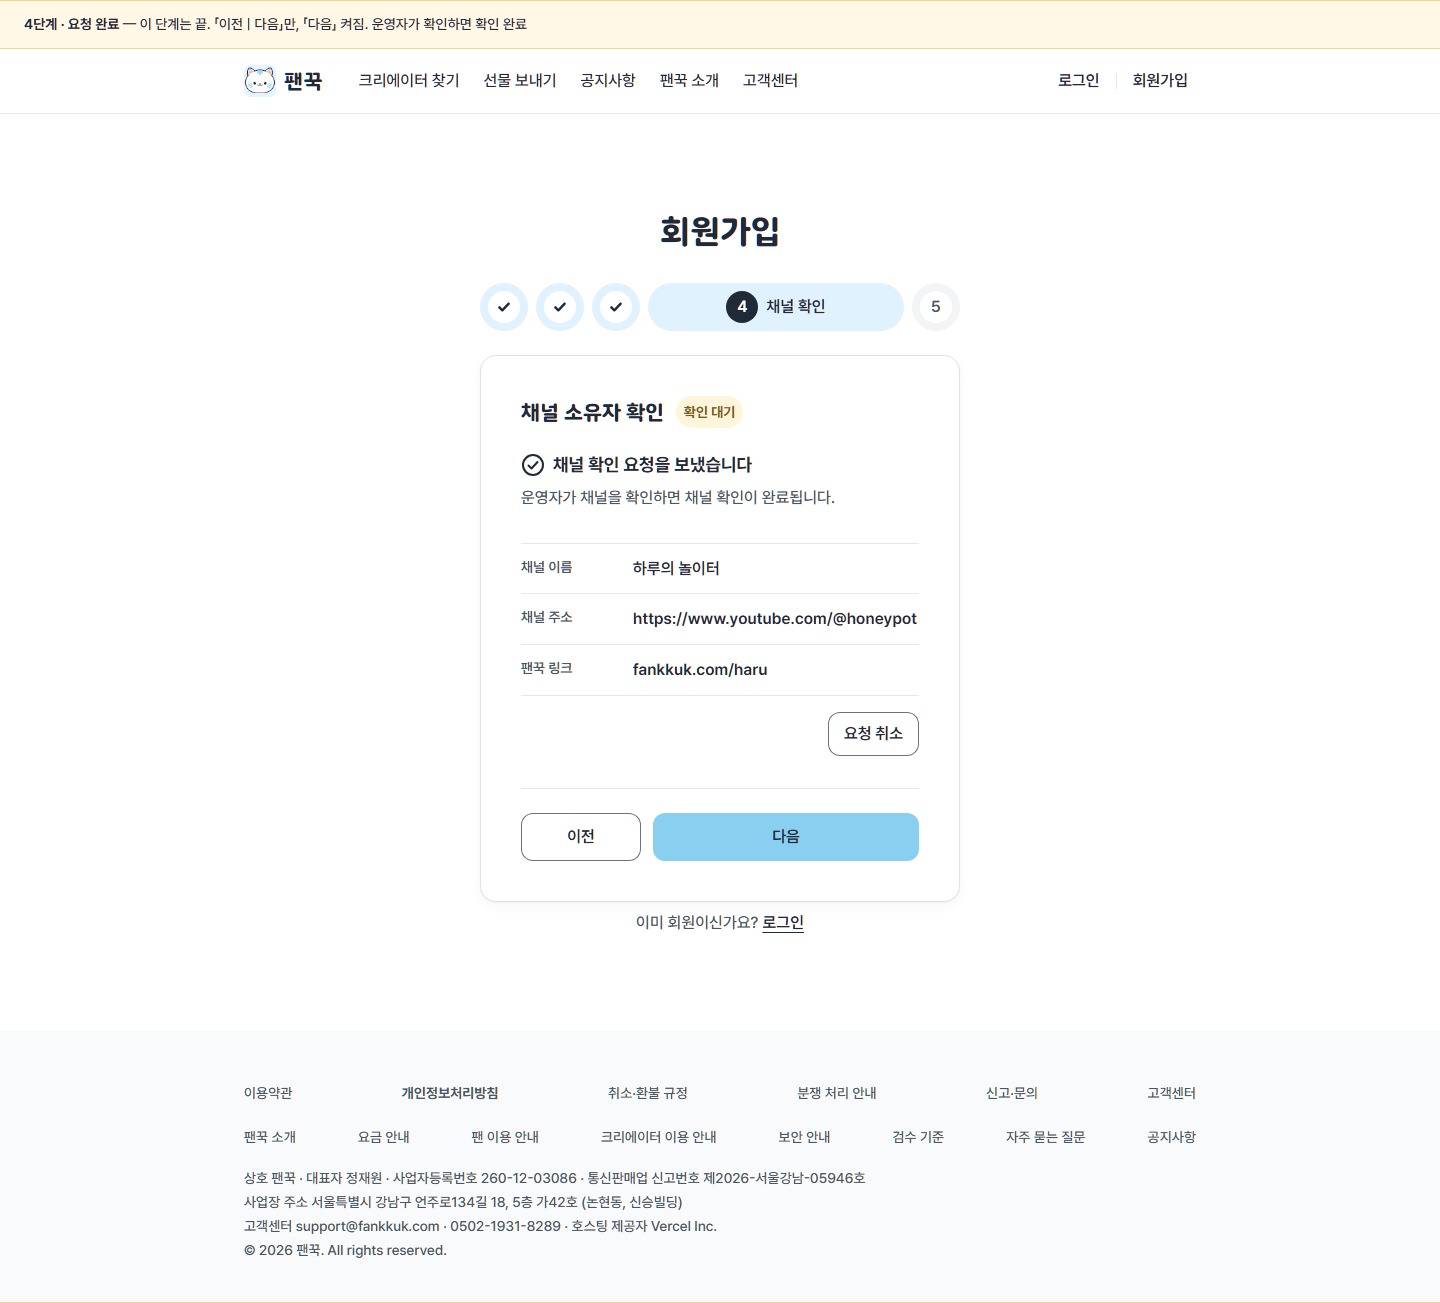
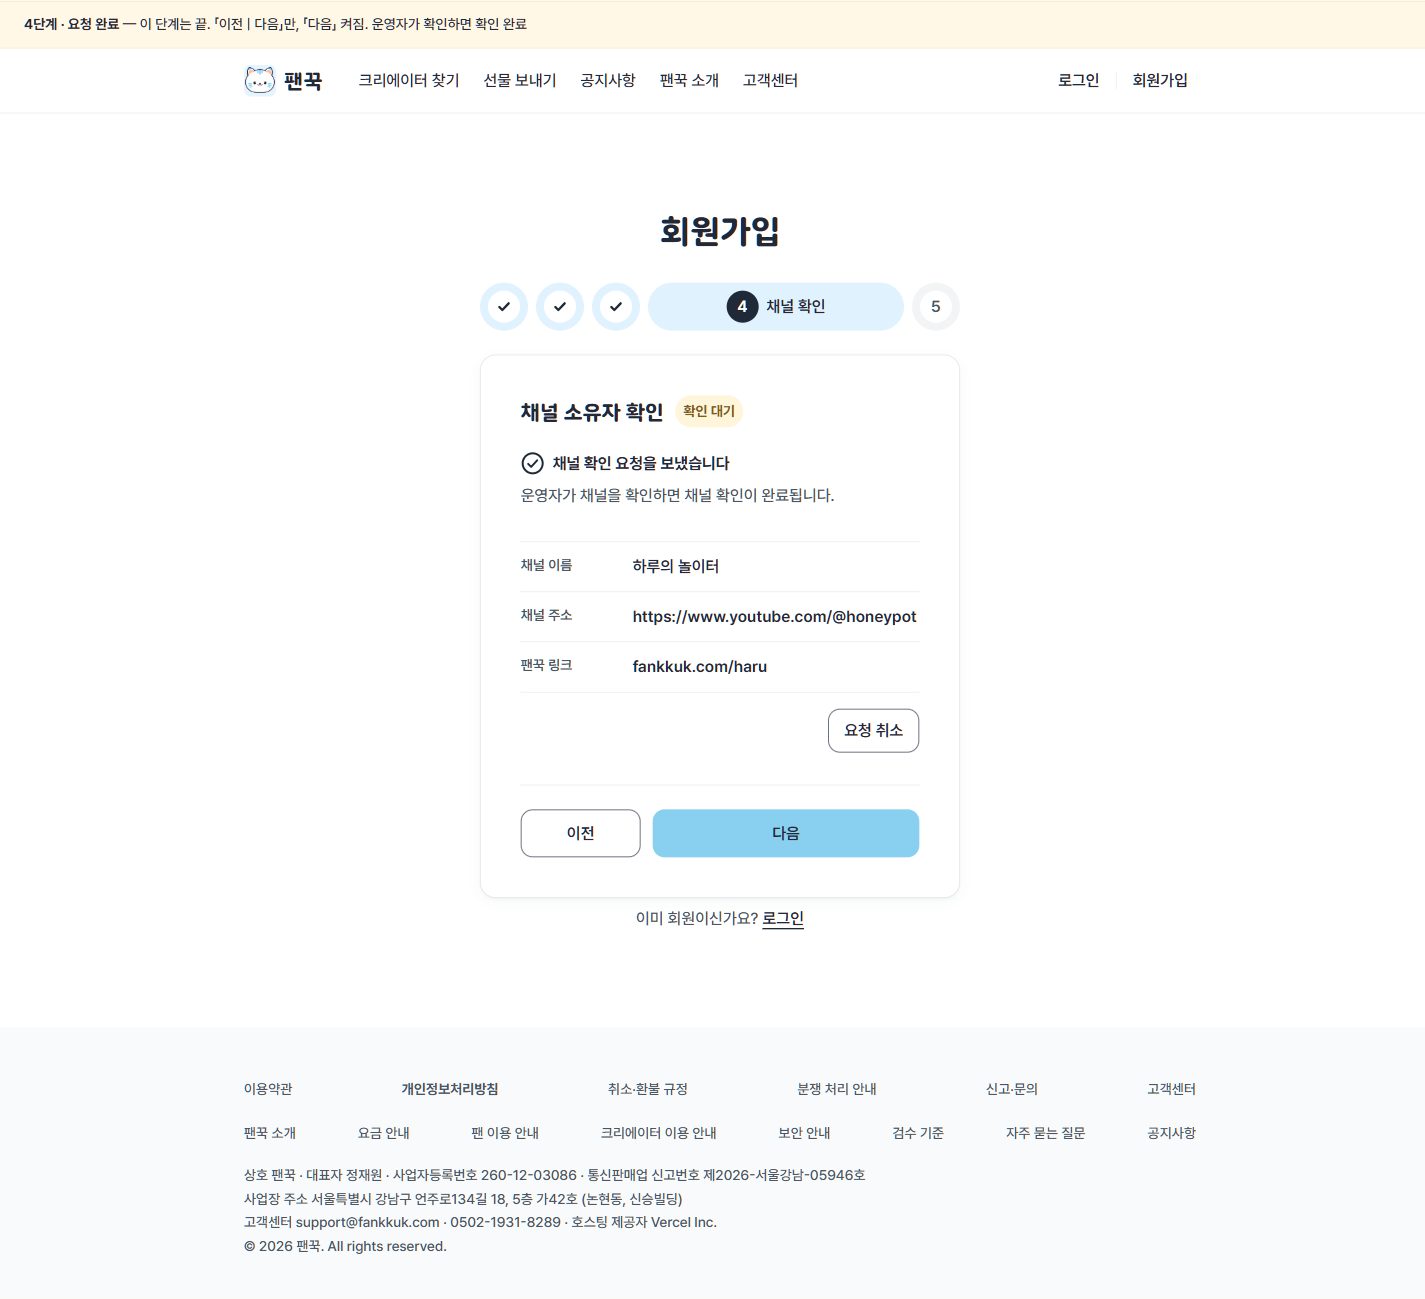
docs(fankkuk): 채널 확인 시안 — 요청 완료 제목 18→16(글자 단계 밖, 프롬프트 3-2)

diff --git a/projects/fankkuk/docs/design/mockups/channel-link-verify-20261102/index.html b/projects/fankkuk/docs/design/mockups/channel-link-verify-20261102/index.html
@@ -833,7 +833,7 @@ button{font-family:inherit}
 .f6 .tag.rej{background:#FEECE9;color:#B42318}
 .f6 .tag.off{background:#F3F4F6;color:#4B5563}
 .f6 .err{margin:0}
-.f6 .vsent{display:flex;align-items:center;gap:8px;margin:0;font-weight:700;font-size:18px;line-height:1.4}
+.f6 .vsent{display:flex;align-items:center;gap:8px;margin:0;font-weight:700;font-size:16px;line-height:1.4}
 .f6 .vkv{margin:0;border-top:1px solid #E5E7EB}
 .f6 .vkv>div{display:grid;grid-template-columns:96px minmax(0,1fr);gap:16px;padding:12px 0;border-bottom:1px solid #E5E7EB}
 .f6 .vkv dt{color:var(--sub);font-size:14px;font-weight:600;line-height:1.6}
